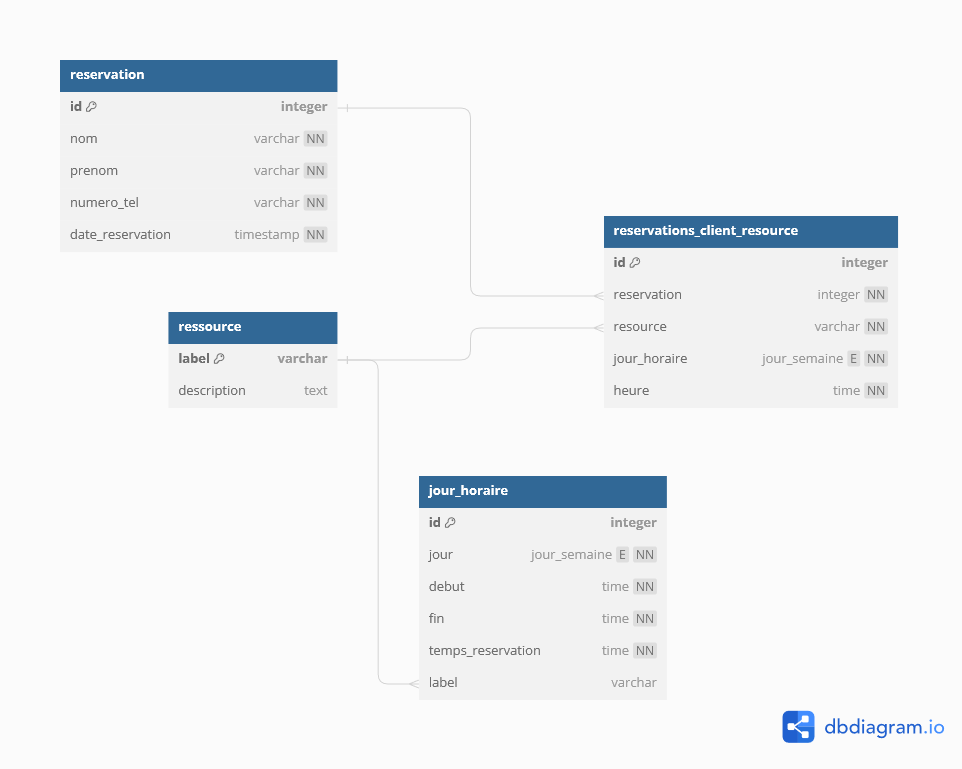
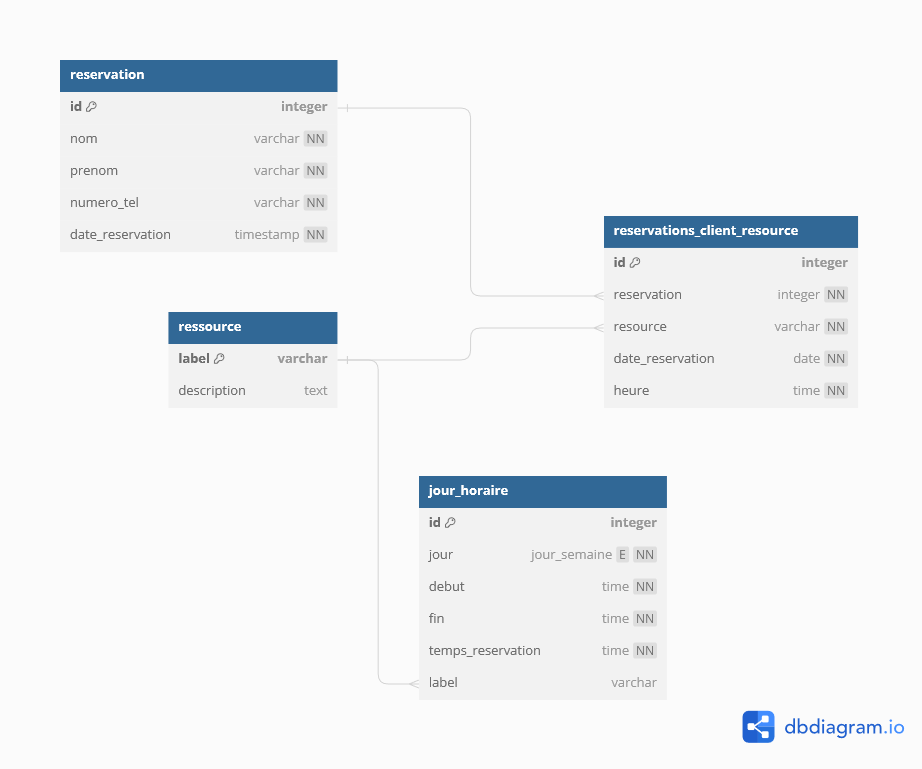
ajout réservation ressources dans la DB depuis API + fix problème chemin script insertion

diff --git a/projet/api/server.py b/projet/api/server.py
@@ -1,4 +1,5 @@
 import datetime
+from zoneinfo import ZoneInfo
 from fastapi import FastAPI, HTTPException, status
 from fastapi.encoders import jsonable_encoder
 from fastapi.middleware.cors import CORSMiddleware
@@ -17,6 +18,14 @@ class Communicate_Rasa(BaseModel):
 
 class Test_rasa_nlu(BaseModel):
     text:str
+
+class Reservation_API(BaseModel):
+    nom:str
+    prenom:str
+    numero_tel:str
+    ressource:str
+    date:datetime.date
+    heure:datetime.time
 
 origins = [
     "http://0.0.0.0",
@@ -54,7 +63,7 @@ def load_config(filename='database.ini', section='postgresql'):
 
 
 
-from sqlalchemy import Column, ForeignKey, Time, create_engine, select
+from sqlalchemy import Column, ForeignKey, Time, create_engine, TIMESTAMP
 from sqlalchemy.engine import URL
 
 config = load_config()
@@ -74,7 +83,7 @@ engine = create_engine(url)
 
 # https://coderpad.io/blog/development/sqlalchemy-with-postgresql/
 from sqlalchemy.orm import declarative_base
-from sqlalchemy import Column, Integer, String, DateTime, Text, VARCHAR,Enum
+from sqlalchemy import Column, Integer, Date, Text, VARCHAR,Enum, Time
 
 import enum
 
@@ -106,65 +115,111 @@ class Jour_Horaire(Base):
     temps_reservation = Column(Time(),nullable=False)
     label = Column(VARCHAR(),ForeignKey('ressource.label'),nullable=True)
 
+class Reservation(Base):
+    __tablename__ = 'reservation'
+    id = Column(Integer(),primary_key=True,autoincrement="auto")
+    nom = Column(VARCHAR(),nullable=False)
+    prenom = Column(VARCHAR(),nullable=False)
+    numero_tel = Column(VARCHAR(),nullable=False)
+    date_reservation = Column(TIMESTAMP(),nullable=False)
+
+class Reservations_Client_Resource(Base):
+    __tablename__ = 'reservations_client_resource'
+    id = Column(Integer(),primary_key=True,autoincrement="auto")
+    reservation = Column(Integer(),ForeignKey('reservation.id'), nullable=False)
+    resource = Column(VARCHAR(),ForeignKey('ressource.label'),nullable=False)
+    date_reservation = Column(Date(),nullable=False)
+    heure = Column(Time(),nullable=False)
+
 from sqlalchemy.orm import sessionmaker
 
 Session = sessionmaker(bind=engine)
-session = Session()
 
 def seconds_to_hour_min_sec(seconds:int)-> tuple[int,int,int]:
     hour = seconds / 3600
 
+# Temps stocké en UTC (2h en moins qu'en Suisse)
+
+@app.post("/add-reservation/")
+async def add_reservation(data:Reservation_API):
+    
+        new_reservation = Reservation(nom=data.nom,prenom=data.prenom,numero_tel=data.numero_tel,date_reservation=datetime.datetime.now(ZoneInfo('Europe/Paris')))
+        print(datetime.datetime.now())
+        output_reserv = Reservation()
+        output_reserv_ressource = Reservations_Client_Resource()
+        try:
+            with Session.begin() as session:
+                session.add(new_reservation)
+                session.flush()
+                session.refresh(new_reservation)
+                output_reserv = {"id": new_reservation.id,"nom": new_reservation.nom,"prenom": new_reservation.prenom,"numero_tel": new_reservation.numero_tel,"date_reservation": new_reservation.date_reservation}
+            with Session.begin() as session:
+                reservation_ressource = Reservations_Client_Resource(reservation=output_reserv["id"],resource=data.ressource,date_reservation=data.date,heure=data.heure)
+                session.add(reservation_ressource)
+                session.flush()
+                session.refresh(reservation_ressource)
+                output_reserv_ressource = {"id": reservation_ressource.id,"heure": reservation_ressource.heure,"date_reservation": reservation_ressource.date_reservation,"ressource": reservation_ressource.resource,"date_reservation": reservation_ressource.date_reservation}
+            return JSONResponse(content={
+                    "message":"Réservation ajoutée",
+                    "data":{"reservation":jsonable_encoder(output_reserv),"reservation_ressource":jsonable_encoder(output_reserv_ressource)}
+                },status_code=status.HTTP_200_OK)
+        except Exception as e:
+            raise HTTPException(status_code=status.HTTP_500_INTERNAL_SERVER_ERROR,detail=str(e))
+        
+            
+
 @app.get("/get-jours-semaine/{ressource_label}")
 async def get_jours_semaine(ressource_label:str):
-    query = session.query(Jour_Horaire.jour).where(Jour_Horaire.label.like(ressource_label)).distinct().all()
-    query_result = []
-    if query.__len__() > 0:
-       query_result = [Jours_Semaine(jour[0]).value for jour in query]
-    # query_result = jsonable_encoder(query)
-    # print(query)
-    return JSONResponse(content=query_result,status_code=status.HTTP_200_OK)
+    with Session.begin() as session:
+        query = session.query(Jour_Horaire.jour).where(Jour_Horaire.label.like(ressource_label)).distinct().all()
+        query_result = []
+        if query.__len__() > 0:
+            query_result = [Jours_Semaine(jour[0]).value for jour in query]
+        return JSONResponse(content=query_result,status_code=status.HTTP_200_OK)
 
 
 @app.get("/get-horaires/{ressource_label}")
 async def get_horaires_for_ressource(ressource_label: str):
-    query = session.query(Jour_Horaire).where(Jour_Horaire.label.like(ressource_label)).all()
-    query_result = jsonable_encoder(query)
-    print(query_result)
-    return JSONResponse(content=query_result,status_code=status.HTTP_200_OK)
+    with Session.begin() as session:
+        query = session.query(Jour_Horaire).where(Jour_Horaire.label.like(ressource_label)).all()
+        query_result = jsonable_encoder(query)
+        print(query_result)
+        return JSONResponse(content=query_result,status_code=status.HTTP_200_OK)
 
 @app.get("/get-horaires/{jour_semaine}/{ressource_label}")
 async def get_horaires_for_ressource(jour_semaine:str,ressource_label: str):
     try:
-        decoupage = datetime.time(minute=30)
-        print(decoupage.__str__())
-        query = session.query(Jour_Horaire).where(Jour_Horaire.label.like(ressource_label)).where(Jour_Horaire.jour == Jours_Semaine[jour_semaine]).all()
-        query_result = jsonable_encoder(query)
-        print(query_result)
+        with Session.begin() as session:
+            decoupage = datetime.time(minute=30)
+            print(decoupage.__str__())
+            query = session.query(Jour_Horaire).where(Jour_Horaire.label.like(ressource_label)).where(Jour_Horaire.jour == Jours_Semaine[jour_semaine]).all()
+            query_result = jsonable_encoder(query)
+            print(query_result)
 
-        total_sec_calc = lambda hour,minute,second: (hour*3600 + minute*60 + second)
+            total_sec_calc = lambda hour,minute,second: (hour*3600 + minute*60 + second)
 
-        
-        final_schedule = []
-        for schedule in query_result:
-            print(f"Schedule {schedule}")
-            debut = datetime.datetime.strptime(schedule['debut'], '%H:%M:%S').time()
-            debut_delta = datetime.timedelta(seconds=total_sec_calc(debut.hour,debut.minute,debut.second))
-            fin = datetime.datetime.strptime(schedule['fin'], '%H:%M:%S').time()
-            fin_delta = datetime.timedelta(seconds=total_sec_calc(fin.hour,fin.minute,fin.second))
-            print(f"Debut {debut}")
-            print(f"Fin {fin}")
-
-
-            decoupage_delta = datetime.timedelta(seconds=total_sec_calc(decoupage.hour,decoupage.minute,decoupage.second))
-
-            slot_count = (fin_delta.total_seconds()-debut_delta.total_seconds()) / decoupage_delta.total_seconds()
-
-            print(f"Number of slots : {slot_count}")
-            new_schedule = [str(debut_delta+(decoupage_delta*offset)) for offset in range(int(slot_count))]
-            final_schedule += new_schedule
+            
+            final_schedule = []
+            for schedule in query_result:
+                print(f"Schedule {schedule}")
+                debut = datetime.datetime.strptime(schedule['debut'], '%H:%M:%S').time()
+                debut_delta = datetime.timedelta(seconds=total_sec_calc(debut.hour,debut.minute,debut.second))
+                fin = datetime.datetime.strptime(schedule['fin'], '%H:%M:%S').time()
+                fin_delta = datetime.timedelta(seconds=total_sec_calc(fin.hour,fin.minute,fin.second))
+                print(f"Debut {debut}")
+                print(f"Fin {fin}")
 
 
-        return JSONResponse(content={"horaire_heures":final_schedule,"horaire":query_result},status_code=status.HTTP_200_OK)
+                decoupage_delta = datetime.timedelta(seconds=total_sec_calc(decoupage.hour,decoupage.minute,decoupage.second))
+
+                slot_count = (fin_delta.total_seconds()-debut_delta.total_seconds()) / decoupage_delta.total_seconds()
+
+                print(f"Number of slots : {slot_count}")
+                new_schedule = [str(debut_delta+(decoupage_delta*offset)) for offset in range(int(slot_count))]
+                final_schedule += new_schedule
+
+
+            return JSONResponse(content={"horaire_heures":final_schedule,"horaire":query_result},status_code=status.HTTP_200_OK)
     except Exception as e:
         raise HTTPException(status_code=status.HTTP_400_BAD_REQUEST, detail=str(e))
 
@@ -172,8 +227,9 @@ async def get_horaires_for_ressource(jour_semaine:str,ressource_label: str):
 
 @app.get("/get-ressources")
 async def get_ressources():
-    query = session.query(Ressource).all()
-    return JSONResponse(content=jsonable_encoder(query),status_code=status.HTTP_200_OK)
+    with Session.begin() as session:
+        query = session.query(Ressource).all()
+        return JSONResponse(content=jsonable_encoder(query),status_code=status.HTTP_200_OK)
 
 @app.post("/test-nlu")
 async def test_nlu_rasa(data:Test_rasa_nlu):

diff --git a/projet/db/scripts/data_insert.py b/projet/db/scripts/data_insert.py
@@ -1,6 +1,5 @@
 import os
 import pandas as pd
-from __future__ import annotations
 from typing import Annotated
 
 import psycopg2
@@ -9,7 +8,9 @@ from configparser import ConfigParser
 # https://www.postgresqltutorial.com/postgresql-python/connect/
 def load_config(filename='database.ini', section='postgresql'):
     parser = ConfigParser()
-    parser.read(filename)
+    script_path = os.path.dirname(os.path.realpath(__file__))
+    filepath = os.path.join(script_path,"database.ini")
+    parser.read(filepath)
 
     # get section, default to postgresql
     config = {}
@@ -82,7 +83,8 @@ def update_sql_script():
         # COPY jour_horaire(jour,debut,fin)
         # FROM '/data/horaire.csv'
         # WITH (FORMAT csv, HEADER);
-        with open(os.path.join(script_path,"data_insert.sql"),"w") as f:
+        sql_filepath = os.path.join(script_path,"data_insert.sql")
+        with open(os.path.join(script_path,sql_filepath),"w") as f:
             f.write(total_string)
     except Exception as e:
         print(f"Error while updating SQL script: {e}")
@@ -92,7 +94,9 @@ def execute_script():
         with psycopg2.connect(**load_config()) as conn:
             conn.autocommit = True
             cursor = conn.cursor()
-            sql = open("data_insert.sql", "r").read()
+            script_path = os.path.dirname(os.path.realpath(__file__))
+            sql_filepath = os.path.join(script_path,"data_insert.sql")
+            sql = open(sql_filepath, "r").read()
             cursor.execute(sql)
         while csv_files.__len__() > 0:
             file = csv_files.pop()
